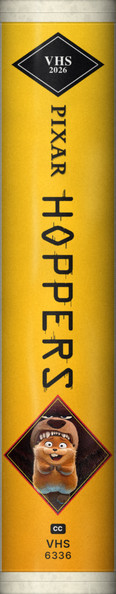
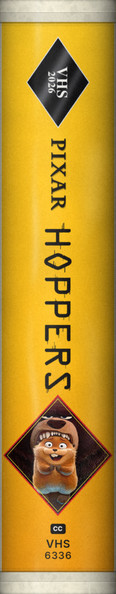
Clamshells: cap stands proud of the sleeve; tall foil diamond with type reading down
Claude-Session: https://claude.ai/code/session_01RnhGoJvJQYqU1rpTHc7xo4

diff --git a/spinegen/tapes.py b/spinegen/tapes.py
@@ -695,20 +695,27 @@ std('deep-web-2015', ('grad', [(0, (12, 12, 20)), (.5, (40, 40, 120)), (1, (14, 
 # (white caps, sleeve, extra height and thickness) is added by finish_vhs(kind='clam').
 # =====================================================================================
 def head_diamond(lines, h=150):
-    """a black diamond with a white keyline holding a couple of lines of plain type"""
+    """a tall black diamond with a silver sheen and keyline, holding plain type that reads down the spine"""
     def fn(im, W, y0, rng):
+        cx, cy, rx, ry = W / 2 * S, (y0 + h / 2) * S, W * 0.27 * S, h / 2 * S
+        m = Image.new('L', im.size, 0)
+        pts = [(cx, cy - ry), (cx + rx, cy), (cx, cy + ry), (cx - rx, cy)]
+        ImageDraw.Draw(m).polygon(pts, fill=255)
+        yy, xx = np.mgrid[0:im.height, 0:im.width].astype(np.float32)
+        t = (xx - cx + (yy - cy) * 0.55) / (rx * 0.9)  # slanted bands of sheen, as on foil
+        sheen = 14 + 70 * np.exp(-((t + 0.25) / 0.22) ** 2) + 40 * np.exp(-((t - 0.55) / 0.16) ** 2)
+        fill = Image.fromarray(np.dstack([sheen, sheen, sheen * 1.04, np.full_like(sheen, 255)]).clip(0, 255).astype(np.uint8), 'RGBA')
+        fill.putalpha(m); im.alpha_composite(fill)
         d = ImageDraw.Draw(im)
-        cx, cy, rx, ry = W / 2 * S, (y0 + h / 2) * S, W * 0.40 * S, h / 2 * S
-        d.polygon([(cx, cy - ry), (cx + rx, cy), (cx, cy + ry), (cx - rx, cy)], fill=(12, 12, 14, 255))
-        k = 0.86
-        d.line([(cx, cy - ry * k), (cx + rx * k, cy), (cx, cy + ry * k), (cx - rx * k, cy), (cx, cy - ry * k)], fill=(236, 236, 232, 255), width=int(1.6 * S))
-        ims = [T(t, 'terb', sz, (240, 240, 236), track=.04).render(1.0) for t, sz in lines]
-        tot = sum(i.height - 2 * (int((10 + sz * 0.12) * S)) for i, (_, sz) in zip(ims, lines)) + 3 * S * (len(ims) - 1)
-        y = cy - tot / 2
-        for i_, (_, sz) in zip(ims, lines):
-            p = int((10 + sz * 0.12) * S)
-            i_ = i_.crop((p, p, i_.width - p, i_.height - p))
-            im.alpha_composite(i_, (int(cx - i_.width / 2), int(y))); y += i_.height + 3 * S
+        d.line(pts + [pts[0]], fill=(226, 228, 232, 255), width=int(1.8 * S), joint='curve')
+        ims = []
+        for t_, sz in lines:
+            i_ = T(t_, 'terb', sz, (246, 246, 242), track=.03).render(1.0); p = int((10 + sz * 0.12) * S)
+            ims.append(rot(i_.crop((p, p, i_.width - p, i_.height - p))))
+        tot = sum(i.width for i in ims) + 3 * S * (len(ims) - 1)
+        x = cx + tot / 2
+        for i_ in ims:
+            x -= i_.width; im.alpha_composite(i_, (int(x), int(cy - i_.height / 2))); x -= 3 * S
     return Fn(fn, h)
 
 
@@ -758,9 +765,9 @@ def ccbox(col, w=30, h=20):
     return Fn(fn, h)
 
 
-def disney(id, bg, title, face, lcol=(250, 214, 80), head=(('VHS', 26), ('2026', 17)), ink=WHT, cat=None, lpath=None, fin=None, **kw):
+def disney(id, bg, title, face, lcol=(250, 214, 80), head=(('VHS', 30), ('2026', 21)), ink=WHT, cat=None, lpath=None, fin=None, **kw):
     W = int(round(w_for(FILMS[id].get('runtime')) * 1.26))  # a clamshell is a thicker box
-    items = [Gap(4), head_diamond(head, int(W * .56)), Gap(16), vlogo(id, lcol, int(W * .62), lpath), Gap(22),
+    items = [Gap(4), Gap(10), head_diamond(head, int(W * .78)), Gap(22), vlogo(id, lcol, int(W * .62), lpath), Gap(22),
              Flex(.5), V(title if isinstance(title, list) else [title], gap=10), Flex(.7),
              portrait(face, int(W * 1.04)), Gap(16), ccbox(ink), Gap(12),
              tiny(['VHS'], ink, font='intsb', size=22, track=.04), Gap(8), catno(cat or catfor(id)[:4], ink, size=20)]

diff --git a/spinegen/lib.py b/spinegen/lib.py
@@ -368,8 +368,9 @@ def finish_vhs(img, seed, kind='slip', wear=0.5, gloss=0.05, fade=0.0, warm=0.0,
         # the clear sleeve stops at the insert: a welded edge top and bottom, a faint shadow under it
         for yb, sg in ((ins0, 1), (ins1, -1)):
             yv = (yy - yb) * sg / S
-            a *= (1 - 0.22 * np.exp(-((yv - 1.0) / 1.3) ** 2))[..., None]
-            a += (0.06 * np.exp(-((yv - 4.0) / 1.4) ** 2))[..., None]
+            a *= (1 - 0.30 * np.exp(-((yv - 1.0) / 1.3) ** 2))[..., None]
+            a *= (1 - 0.16 * np.clip(1 - (yv - 1.0) / 9.0, 0, 1) * (yv > 0))[..., None]  # the cap stands proud: its shadow on the sleeve
+            a += (0.05 * np.exp(-((yv - 4.0) / 1.4) ** 2))[..., None]
         # the caps: moulded plastic rounding over at the very ends, a seam, a little grime
         capm = ((yy < ins0) | (yy >= ins1)).astype(np.float32)
         dy_ = np.minimum(yy, h - 1 - yy) / S
@@ -378,6 +379,7 @@ def finish_vhs(img, seed, kind='slip', wear=0.5, gloss=0.05, fade=0.0, warm=0.0,
         cr = 12.0  # a small ease only: the ends of the case are close to square
         cd = np.sqrt(np.clip(1 - dx / cr, 0, 1) ** 2 + np.clip(1 - dy_ / cr, 0, 1) ** 2)
         a *= (1 - 0.18 * np.clip(cd - 0.8, 0, 1) / 0.6)[..., None]
+        a *= (1 - capm * 0.07 * np.clip((dy_ - 0.55 * CLAM_CAP) / 3.0, 0, 1))[..., None]  # the lip nearest the sleeve sits a shade darker
         seam = rng.uniform(0.45, 0.62) * CLAM_CAP
         a *= (1 - capm * 0.16 * np.exp(-((dy_ - seam) / 0.9) ** 2))[..., None]
         a += (capm * 0.05 * np.exp(-((dy_ - seam + 2.0) / 1.0) ** 2))[..., None]
